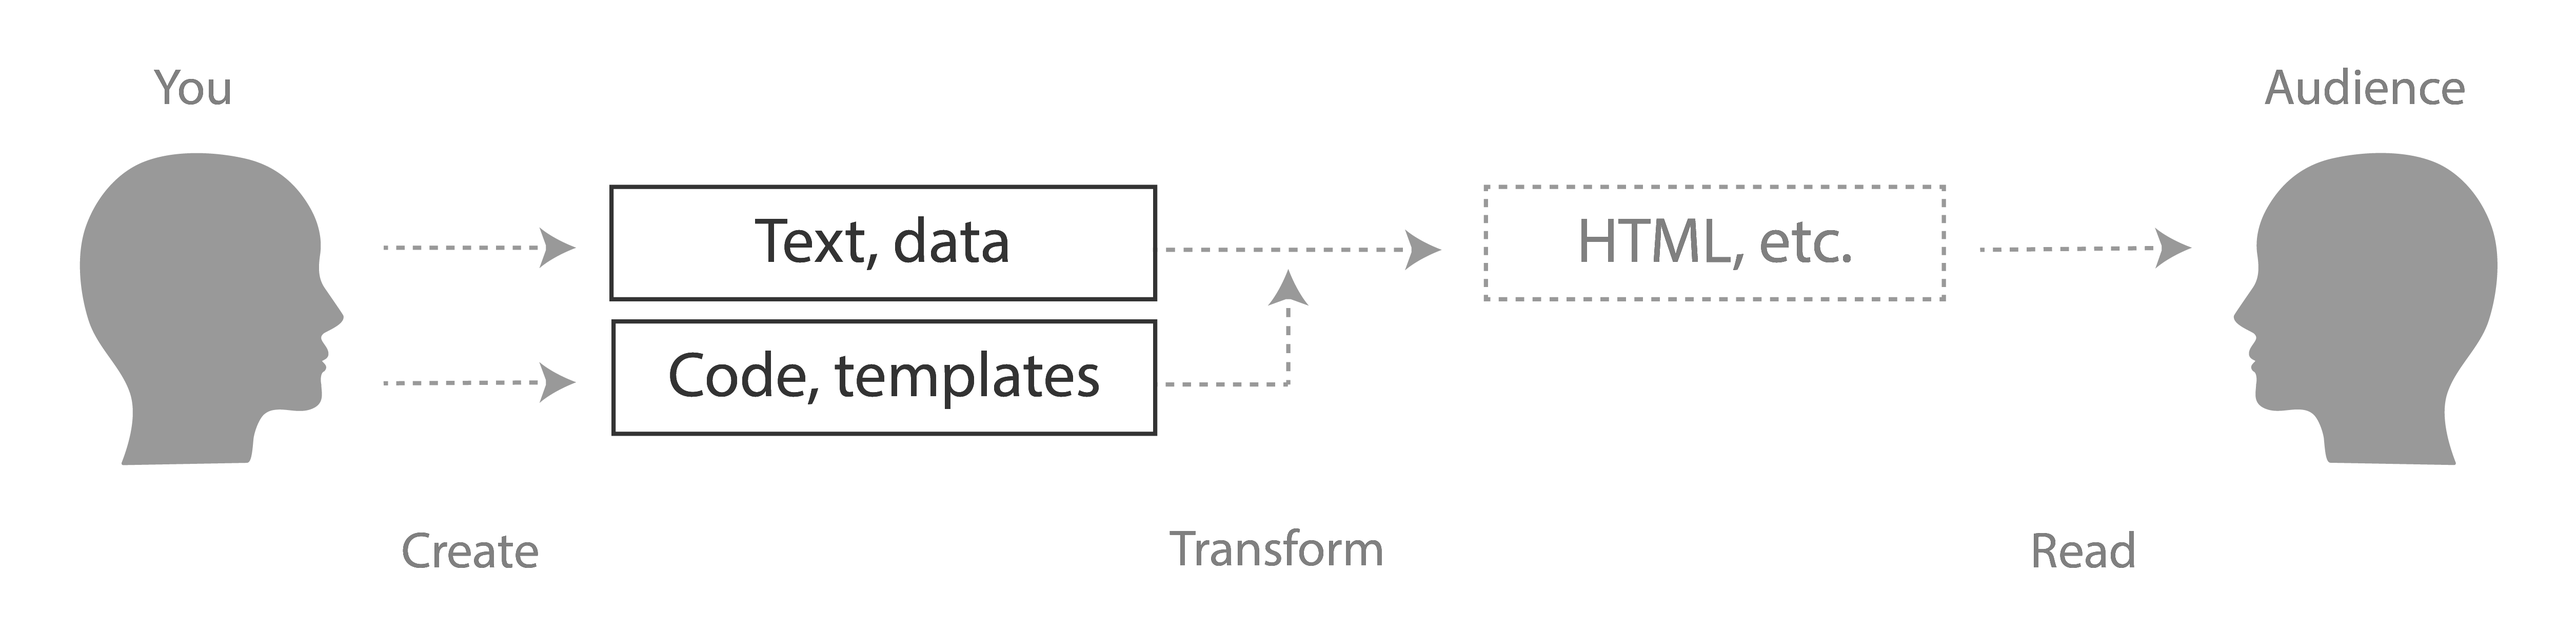
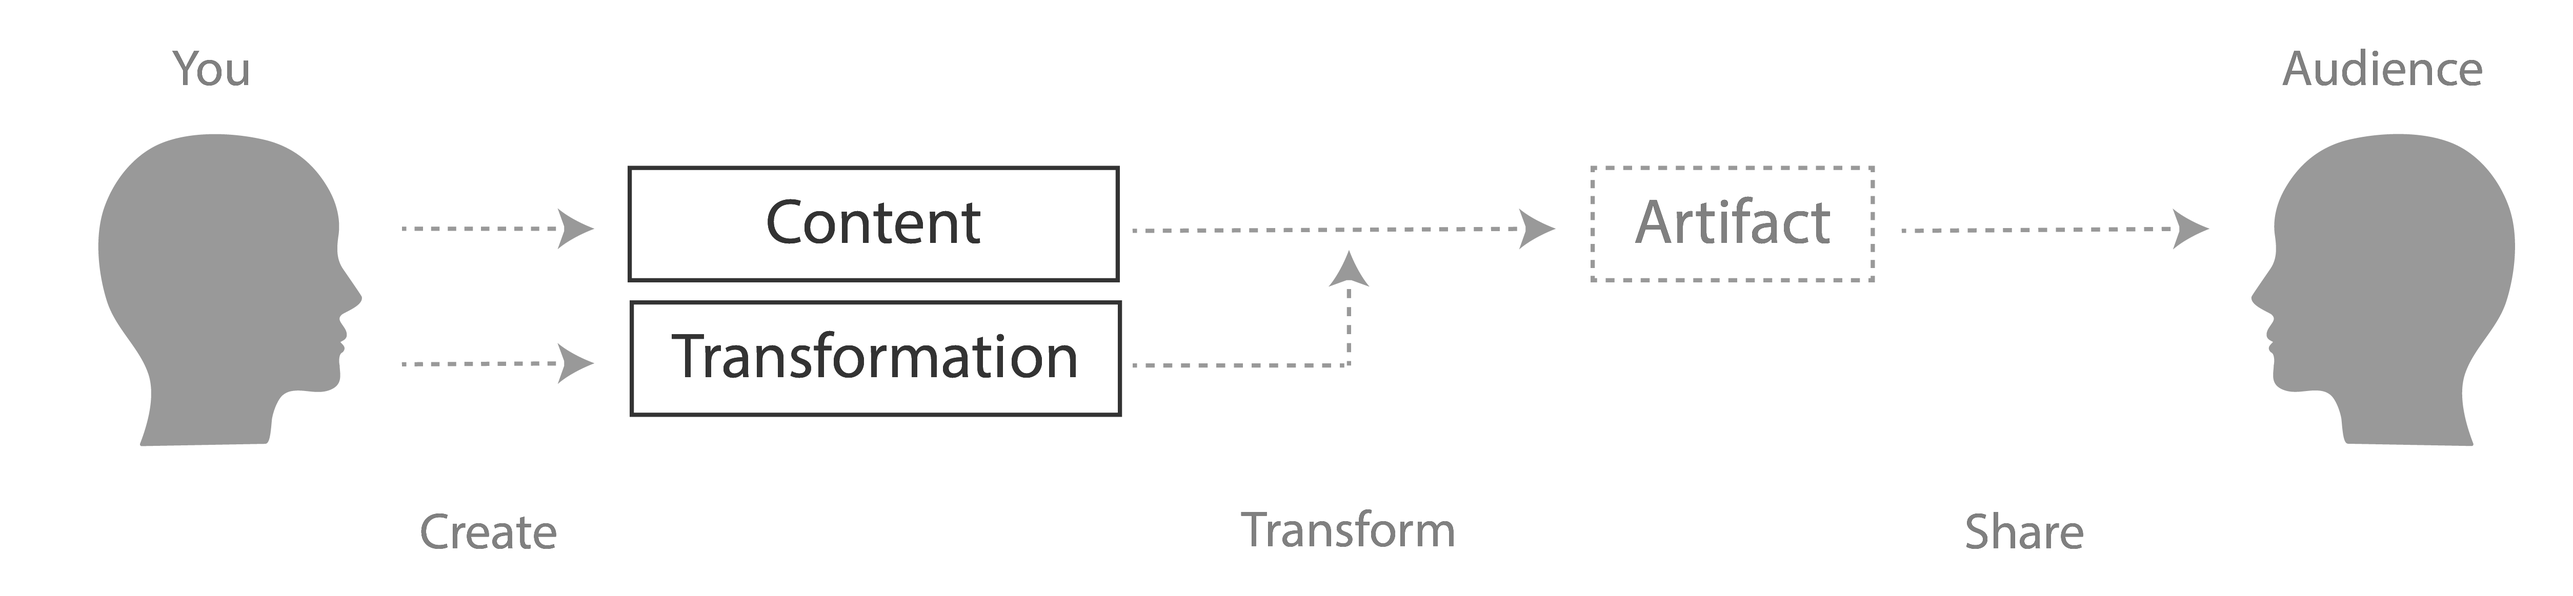
Docs

diff --git a/content/language/model.md b/content/language/model.md
@@ -64,7 +64,7 @@ The path between you and your audience now has more steps:
 
 ![Abstract person creating source content and transformation, with arrows showing that built into HTML read by the audience member](/assets/model/transformation.png)
 
-First you _create_ something, then you _transform_ it to produce something you can share.
+You create content and a transformation, then apply the transformation to the content to produce something you can share.
 
 The transformation often reads in the pile of files you can write and produces another pile of files your users can browse. Such a transformation is called a _static site generator_, where “static” means “stuff that doesn’t change from moment to moment”. Most sites are, or could be, static sites.
 
